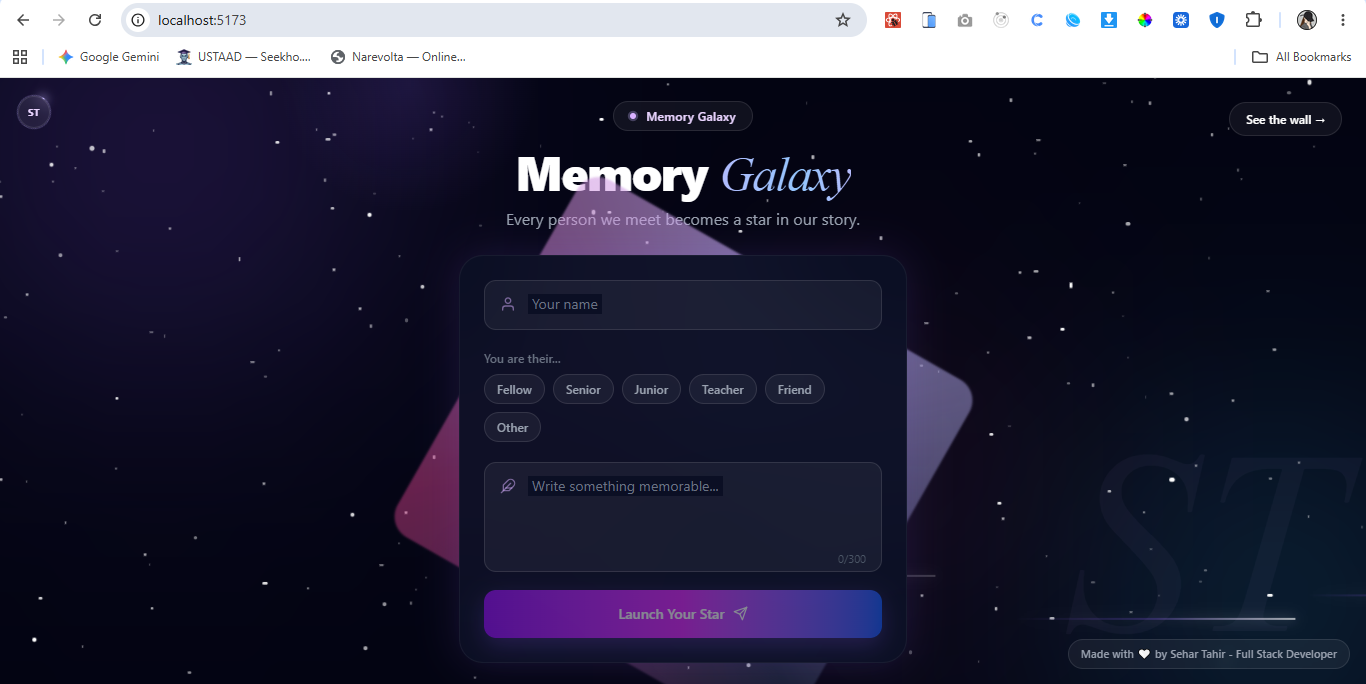
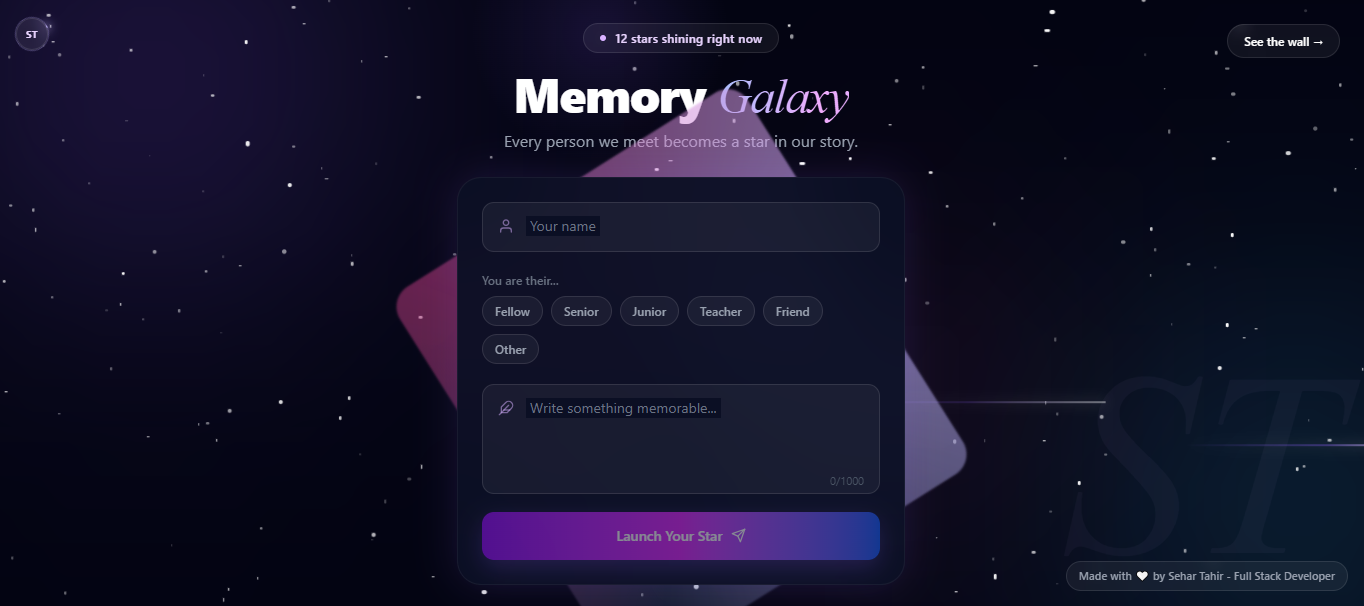
updated

diff --git a/src/data/projects.js b/src/data/projects.js
@@ -12,6 +12,7 @@ import UniHirexImg from '../assets/unihirex.png'
 import MemoryGalaxyImg from '../assets/galaxy.png'
 import KW from '../assets/KW.png'
 import BC from '../assets/BossCredit.png'
+import IUB from '../assets/IUB.png'
 
 // Fixed category list — used for filter tabs. Keep these exact strings
 // in sync with the `category` field on each project below.
@@ -59,20 +60,20 @@ export const projects = [
   status: 'Available soon',
 },
 {
-    slug: 'mern-auth-frontend',
-    title: 'MERN Auth',
-    category: 'Full Stack',
-    imgsrc: Auth,
-    gallery: [Auth],
-    tec: 'MERN - Frontend',
-    oneLiner: 'A smooth registration and login interface with clear interaction flow.',
-    desc: 'A user authentication interface designed to provide a smooth registration and login experience with clear interaction flow.',
-    problem: 'Building an intuitive authentication flow for a full-stack MERN application.',
-    approach: 'Designed the login/register forms in React with validation feedback and clean state handling.',
-    result: 'A smooth, validated auth flow connected to the corresponding backend.',
-    git: 'https://github.com/Sehar-Tahir/MERN-Auth/tree/main/frontend',
-    demo: 'https://mern-auth-frontend-ecru.vercel.app/',
-  },
+  slug: 'IUB-affliliation-portal',
+  title: 'IUB Affliliation Portal',
+  category: 'Full Stack',
+  imgsrc: IUB,
+  gallery: [IUB],
+  tec: 'Html, CSS, Javascript, tailwind CSS',
+  oneLiner: 'Redesigned the existing Islamia University of Bhawalpur (IUB) Affiliation Portal',
+  desc: 'A fully redesigned IUB Affiliation Portal with a modern, responsive interface.',
+  problem: 'The existing IUB Affiliation Portal was outdated and lacked a user-friendly interface, making it difficult for students to navigate and engage with campus affiliations.',
+  approach: 'Redesigned the IUB Affiliation Portal with a modern, responsive interface using HTML, CSS, JavaScript, and Tailwind CSS, focusing on improving navigation and user engagement.',
+  result: 'A fully redesigned IUB Affiliation Portal that enhances user experience, making it easier for students to access information and engage with campus affiliations.',
+  git: 'https://github.com/Sehar-Tahir/IUB-Affiliation-Portal_Redesign',
+  demo: 'https://iub-affiliation-portal-redesign.vercel.app/',
+},
 {
   slug: 'karachi-weather',
   title: 'Karachi Weather',
@@ -85,8 +86,8 @@ export const projects = [
   problem: 'The client needed a weather application that felt custom-built rather than a generic API wrapper, with a polished, branded interface.',
   approach: 'Built a full-stack MERN application with a custom hero section and dynamic theming that responds to live weather conditions, alongside a clean, responsive search interface.',
   result: 'A working real-time weather platform with a distinct, branded visual identity for the client.',
-  git: 'https://github.com/Sehar-Tahir/Sehar_Portfolio',
-  demo: 'https://sehar-portfolio.vercel.app/',
+  git: 'https://github.com/Sehar-Tahir/KarachiWeather',
+  demo: 'https://karachi-weather-kw.vercel.app/',
 },
 {
   slug: 'boss-credit',
@@ -100,8 +101,8 @@ export const projects = [
   problem: 'The client\u2019s existing GoHighLevel site felt outdated and didn\u2019t reflect the credibility needed for a financial services business.',
   approach: 'Redesigned the site structure and layout inside GoHighLevel, focusing on a cleaner visual hierarchy and more modern section design.',
   result: 'A refreshed, more professional-looking site that better represents the client\u2019s credit services business.',
-  git: 'https://github.com/Sehar-Tahir/Sehar_Portfolio',
-  demo: 'https://sehar-portfolio.vercel.app/',
+  git: 'https://sites.leadconnectorhq.com/preview/3qeXvAXJBlpgBnaB2us9',
+  demo: 'https://sites.leadconnectorhq.com/preview/3qeXvAXJBlpgBnaB2us9',
 },
  {
     slug: 'chatbot',
@@ -162,6 +163,21 @@ export const projects = [
     result: 'A functional tool that helps students make more informed academic decisions.',
     git: 'https://github.com/Sehar-Tahir/UniGradebook',
     demo: 'https://uni-gradebook.vercel.app/',
+  },
+  {
+    slug: 'mern-auth-frontend',
+    title: 'MERN Auth',
+    category: 'others',
+    imgsrc: Auth,
+    gallery: [Auth],
+    tec: 'MERN - Frontend',
+    oneLiner: 'A smooth registration and login interface with clear interaction flow.',
+    desc: 'A user authentication interface designed to provide a smooth registration and login experience with clear interaction flow.',
+    problem: 'Building an intuitive authentication flow for a full-stack MERN application.',
+    approach: 'Designed the login/register forms in React with validation feedback and clean state handling.',
+    result: 'A smooth, validated auth flow connected to the corresponding backend.',
+    git: 'https://github.com/Sehar-Tahir/MERN-Auth-Frontend',
+    demo: 'https://mern-auth-frontend-ecru.vercel.app/',
   },
   {
     slug: 'weather-now',

diff --git a/src/Components/Experience/Experience.jsx b/src/Components/Experience/Experience.jsx
@@ -19,7 +19,7 @@ const experience = [
     role: 'React & Next.js Fellowship',
     org: 'Bytewise Limited',
     period: 'June 2024 - September 2024',
-    highlight: 'Awarded Top Performer of the Month',
+    highlight: 'Awarded as Top Performer of the Month',
     desc: 'Hands-on experience and a strong foundation in modern frontend development building responsive, reusable UIs with React, and clean, accessible designs with Material UI and Tailwind CSS. Strengthened component-based architecture and frontend best practices.',
   },
   {
@@ -64,7 +64,7 @@ const Experience = () => {
                   <p className="text-sm text-accent dark:text-accent-soft mt-0.5">{item.org}</p>
 
                   {item.highlight && (
-                    <p className="text-xs font-mono text-signal mt-2">★ {item.highlight}</p>
+                    <p className="text-xs font-mono text-yellow-300 mt-2">★ {item.highlight}</p>
                   )}
 
                   <p className="text-sm leading-relaxed text-ink-muted dark:text-mist-muted mt-3">

diff --git a/src/pages/ProjectDetail.jsx b/src/pages/ProjectDetail.jsx
@@ -17,8 +17,8 @@ const ProjectDetail = () => {
 
   useEffect(() => {
     window.scrollTo(0, 0)
-    if (project) document.title = `${project.title} — Sehar Tahir`
-    return () => { document.title = 'Sehar Tahir — Web Developer & GHL Automation Specialist' }
+    if (project) document.title = `${project.title} - Sehar Tahir`
+    return () => { document.title = 'Sehar Tahir - Web Developer & GHL Automation Specialist' }
   }, [project])
 
   if (!project) {

diff --git a/index.html b/index.html
@@ -13,7 +13,7 @@
   <link rel="preconnect" href="https://fonts.googleapis.com">
   <link rel="preconnect" href="https://fonts.gstatic.com" crossorigin>
   <link href="https://fonts.googleapis.com/css2?family=Space+Grotesk:wght@400;500;600;700&family=Inter:wght@400;500;600;700;800&family=JetBrains+Mono:wght@400;500;600&display=swap" rel="stylesheet">
-  <title>Sehar Tahir Portfolio</title>
+  <title>Sehar Tahir - Portfolio</title>
 </head>
 
 <body>
